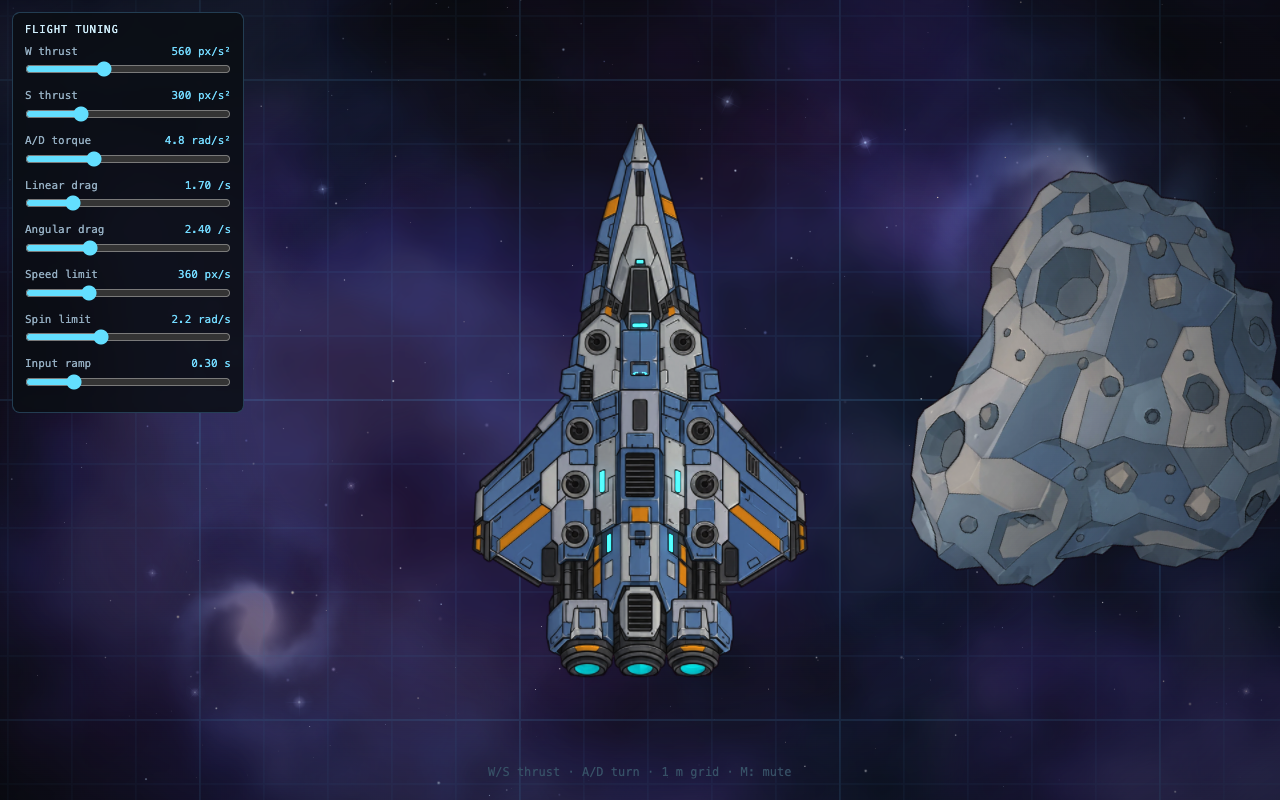
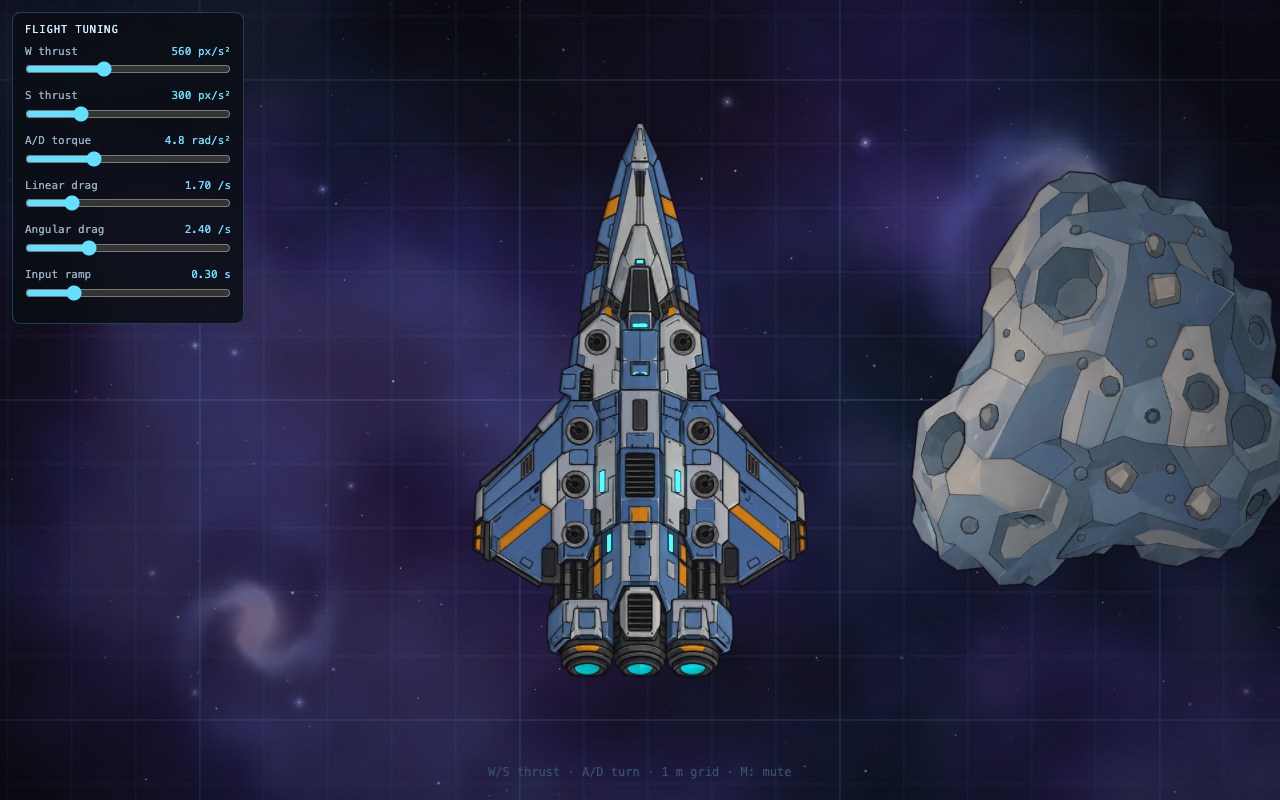
fix: let thrust and drag set terminal speed

diff --git a/src/app/ship-flight.ts b/src/app/ship-flight.ts
@@ -13,8 +13,6 @@ export interface FlightTuning {
   angularAccel: number;
   linearDrag: number;
   angularDrag: number;
-  maxLinearSpeed: number;
-  maxAngularSpeed: number;
   inputRampSeconds: number;
 }
 
@@ -24,8 +22,6 @@ export const DEFAULT_FLIGHT_TUNING: FlightTuning = {
   angularAccel: 4.8,
   linearDrag: 1.7,
   angularDrag: 2.4,
-  maxLinearSpeed: 360,
-  maxAngularSpeed: 2.2,
   inputRampSeconds: 0.3,
 };
 
@@ -86,8 +82,9 @@ export function stepFlight(
   state.vy += forwardY * thrust * state.linearInput * dt;
   state.angularVelocity += state.angularInput * tuning.angularAccel * dt;
 
-  // Drag only while the corresponding input is non-zero. Once it ramps back to
-  // zero the ship coasts; the speed limits below keep that finite.
+  // Drag only while the corresponding input is non-zero; with a positive drag
+  // the thrust/drag ratio sets a finite terminal speed. Once the input ramps
+  // back to zero the ship coasts on its momentum.
   if (state.linearInput !== 0) {
     const drag = Math.exp(-tuning.linearDrag * dt);
     state.vx *= drag;
@@ -96,17 +93,6 @@ export function stepFlight(
   if (state.angularInput !== 0) {
     state.angularVelocity *= Math.exp(-tuning.angularDrag * dt);
   }
-
-  const speed = Math.hypot(state.vx, state.vy);
-  if (speed > tuning.maxLinearSpeed) {
-    const scale = tuning.maxLinearSpeed / speed;
-    state.vx *= scale;
-    state.vy *= scale;
-  }
-  state.angularVelocity = Math.max(
-    -tuning.maxAngularSpeed,
-    Math.min(tuning.maxAngularSpeed, state.angularVelocity),
-  );
 
   state.rotation += state.angularVelocity * dt;
   state.x += state.vx * dt;

diff --git a/tests/ship-flight.test.ts b/tests/ship-flight.test.ts
@@ -49,16 +49,17 @@ describe('ship flight', () => {
     expect(left.rotation).toBeCloseTo(-right.rotation, 6);
   });
 
-  it('caps linear and angular speed', () => {
+  it('settles at the thrust/drag terminal speed', () => {
     const state = createFlightState();
-    state.vx = DEFAULT_FLIGHT_TUNING.maxLinearSpeed * 10;
-    state.vy = DEFAULT_FLIGHT_TUNING.maxLinearSpeed * 10;
-    state.angularVelocity = DEFAULT_FLIGHT_TUNING.maxAngularSpeed * 10;
+    const dt = 1 / 60;
+    for (let frame = 0; frame < 60 * 15; frame += 1) {
+      stepFlight(state, press({ forward: true }), dt);
+    }
 
-    stepFlight(state, idle, 1 / 60);
-
-    expect(Math.hypot(state.vx, state.vy)).toBeCloseTo(DEFAULT_FLIGHT_TUNING.maxLinearSpeed, 6);
-    expect(state.angularVelocity).toBeCloseTo(DEFAULT_FLIGHT_TUNING.maxAngularSpeed, 6);
+    const terminal = DEFAULT_FLIGHT_TUNING.forwardAccel / DEFAULT_FLIGHT_TUNING.linearDrag;
+    const speed = Math.hypot(state.vx, state.vy);
+    expect(speed).toBeGreaterThan(terminal * 0.98);
+    expect(speed).toBeLessThan(terminal * 1.02);
   });
 
   it('coasts without drag once input is zero', () => {

diff --git a/src/app/flight-tuner.ts b/src/app/flight-tuner.ts
@@ -22,25 +22,15 @@ const SLIDERS: SliderSpec[] = [
     digits: 1,
     unit: 'rad/s²',
   },
-  { key: 'linearDrag', label: 'Linear drag', min: 0, max: 8, step: 0.05, digits: 2, unit: '/s' },
-  { key: 'angularDrag', label: 'Angular drag', min: 0, max: 8, step: 0.05, digits: 2, unit: '/s' },
+  { key: 'linearDrag', label: 'Linear drag', min: 0.05, max: 8, step: 0.05, digits: 2, unit: '/s' },
   {
-    key: 'maxLinearSpeed',
-    label: 'Speed limit',
-    min: 10,
-    max: 1200,
-    step: 10,
-    digits: 0,
-    unit: 'px/s',
-  },
-  {
-    key: 'maxAngularSpeed',
-    label: 'Spin limit',
-    min: 0.1,
-    max: 6,
-    step: 0.1,
-    digits: 1,
-    unit: 'rad/s',
+    key: 'angularDrag',
+    label: 'Angular drag',
+    min: 0.05,
+    max: 8,
+    step: 0.05,
+    digits: 2,
+    unit: '/s',
   },
   {
     key: 'inputRampSeconds',

diff --git a/README.md b/README.md
@@ -79,14 +79,14 @@ docs/                     Architecture decisions, reference art and agent workfl
 ## Controls
 
 - **W/S** thrust forward/back; **A/D** rotate. Inputs ramp in over 0.3 s, drag applies while
-  thrusting, and speeds are capped.
+  thrusting, and **thrust vs drag decide the terminal speed** — no separate speed cap.
 - The ship flies on the **near dust layer**; the camera smoothly pans with it so it stays in the
   center region. The asteroid is fixed on that layer, and the layer is rigid (dust only moves
   with the camera, never on its own).
 - A subtle cyan **ground grid** is fixed to that layer: minor cells are **1 m × 1 m** (64 world
   px per metre), major lines every 5 m. Ship movement and speed read against it.
-- The top-left **FLIGHT TUNING** panel has live sliders for thrust, torque, linear/angular drag,
-  speed/spin limits and input ramp.
+- The top-left **FLIGHT TUNING** panel has live sliders for thrust, torque, linear/angular drag
+  and input ramp.
 - **Drag the canvas** to look around (the follow cam eases back to the ship); **scroll / pinch**
   zooms out from the default 1× (`0.02×–1×`, 50× max zoom-out). **Double-click** resets zoom.
 - **Click** for the placeholder sound; **M** mutes/unmutes.

diff --git a/AGENTS.md b/AGENTS.md
@@ -49,8 +49,8 @@ behaviour, also run `pnpm browser:inspect` and check the screenshot.
 - `src/app/create-app.ts` — creates and initialises the PixiJS `Application`.
 - `src/app/lighting-scene.ts` — the only scene: ship + asteroid layout, lighting state, WASD
   input. Places both objects with `Background.getDustTransform()` on the near dust layer.
-- `src/app/ship-flight.ts` — pure ramped arcade flight model (0.3 s input ramp, thrust, drag,
-  speed caps). Unit-tested in `tests/ship-flight.test.ts`.
+- `src/app/ship-flight.ts` — pure ramped arcade flight model (0.3 s input ramp, thrust, drag;
+  terminal speed emerges from thrust/drag). Unit-tested in `tests/ship-flight.test.ts`.
 - `src/app/flight-tuner.ts` — live DOM slider overlay that mutates `FlightTuning`; dev-facing.
 - `src/app/ground-grid.ts` — screen-space 1 m × 1 m grid fixed to the near dust layer
   (64 world px per metre; major lines every 5 m).
